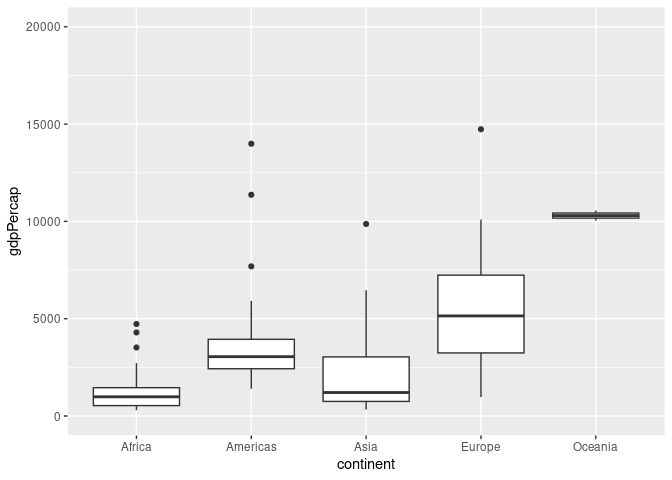
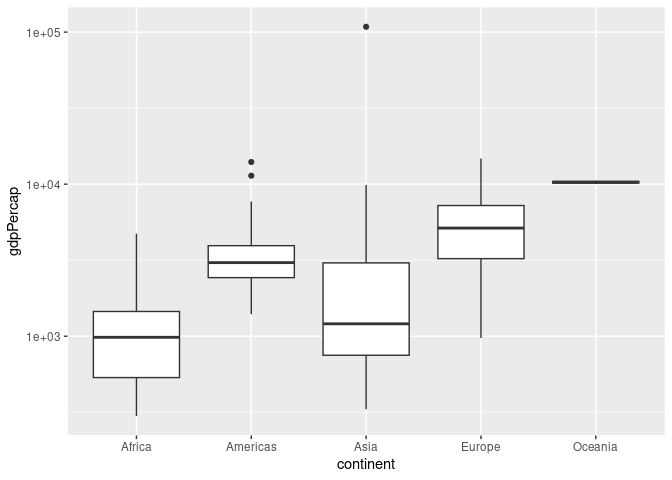
c04 corrections

diff --git a/challenges/c04-gapminder-assignment.md b/challenges/c04-gapminder-assignment.md
@@ -88,9 +88,9 @@ library(tidyverse)
 
     ## ── Attaching packages ─────────────────────────────────────── tidyverse 1.3.2 ──
     ## ✔ ggplot2 3.4.0      ✔ purrr   1.0.1 
-    ## ✔ tibble  3.1.8      ✔ dplyr   1.0.10
+    ## ✔ tibble  3.2.0      ✔ dplyr   1.0.10
     ## ✔ tidyr   1.2.1      ✔ stringr 1.5.0 
-    ## ✔ readr   2.1.3      ✔ forcats 0.5.2 
+    ## ✔ readr   2.1.4      ✔ forcats 0.5.2 
     ## ── Conflicts ────────────────────────────────────────── tidyverse_conflicts() ──
     ## ✖ dplyr::filter() masks stats::filter()
     ## ✖ dplyr::lag()    masks stats::lag()
@@ -173,8 +173,14 @@ summary(gapminder)
 
 ``` r
 ## TASK: Find the largest and smallest values of `year` in `gapminder`
-year_max <- max(pull(gapminder, year))
-year_min <- min(pull(gapminder, year))
+year_max <-
+  gapminder %>%
+  pull(year) %>%
+  max()
+year_min <-
+  gapminder %>%
+  pull(year) %>%
+  min()
 ```
 
 Use the following test to check your work.
@@ -231,7 +237,8 @@ gapminder %>%
   geom_boxplot(mapping = aes(
     x = continent,
     y = gdpPercap,
-  )) +  coord_cartesian(ylim = c(0, 20000))
+  )) +
+  scale_y_log10()
 ```
 
 ![](c04-gapminder-assignment_files/figure-gfm/q2-task-1.png)<!-- -->
@@ -266,6 +273,8 @@ gapminder %>%
 
 - One data point within the Asian continent is astronomically higher
   than all of the other datapoints, I wonder which country that is.
+- Oceania has a very compressed set of points, which likely points to
+  only a few countries being included.
 
 **Difficulties & Approaches**:
 
@@ -274,8 +283,8 @@ gapminder %>%
 - Taking the boxplot instead of the violin gives a somewhat better view
   of the data, but the outlier still makes the rest of the plot
   difficult to understand.
-- By utilizing `coord_cartesian` to limit the y axis, I cut out the one
-  extreme outlier and the rest of the data looks much more reasonable.
+- By utilizing `scale_y_log10` to put the y axis on a log scale, the one
+  extreme outlier no longer makes the rest of the plot unreadable.
 
 ### **q3** You should have found *at least* three outliers in q2 (but possibly many more!). Identify those outliers (figure out which countries they are).
 
@@ -437,7 +446,10 @@ gapminder %>%
   see life expectancy increases from the wealth.
 - In addition, I see that the coloration by year shows a stark increase
   in life expectancy overall as time goes on. Almost all of the
-  high-life expectancy points are from recent years.
+  high-life expectancy points are from recent years. However, as there
+  is a large amount of overplotting on this figure, I can’t reliably
+  make this distinction without also creating a timeseries or other more
+  focused plot.
 - I do notice one point at the very bottom left of the plot that is very
   recent and wonder what country it might be and whether its decline
   relates to some world events.
